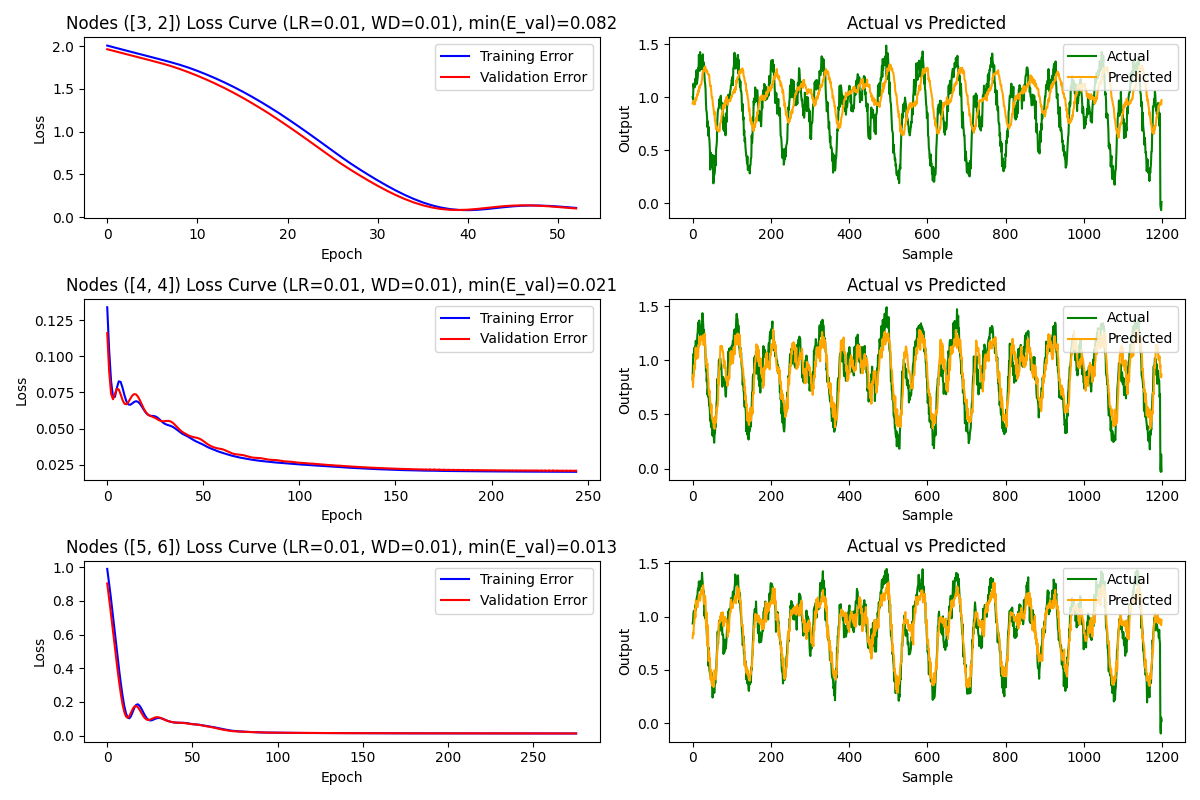
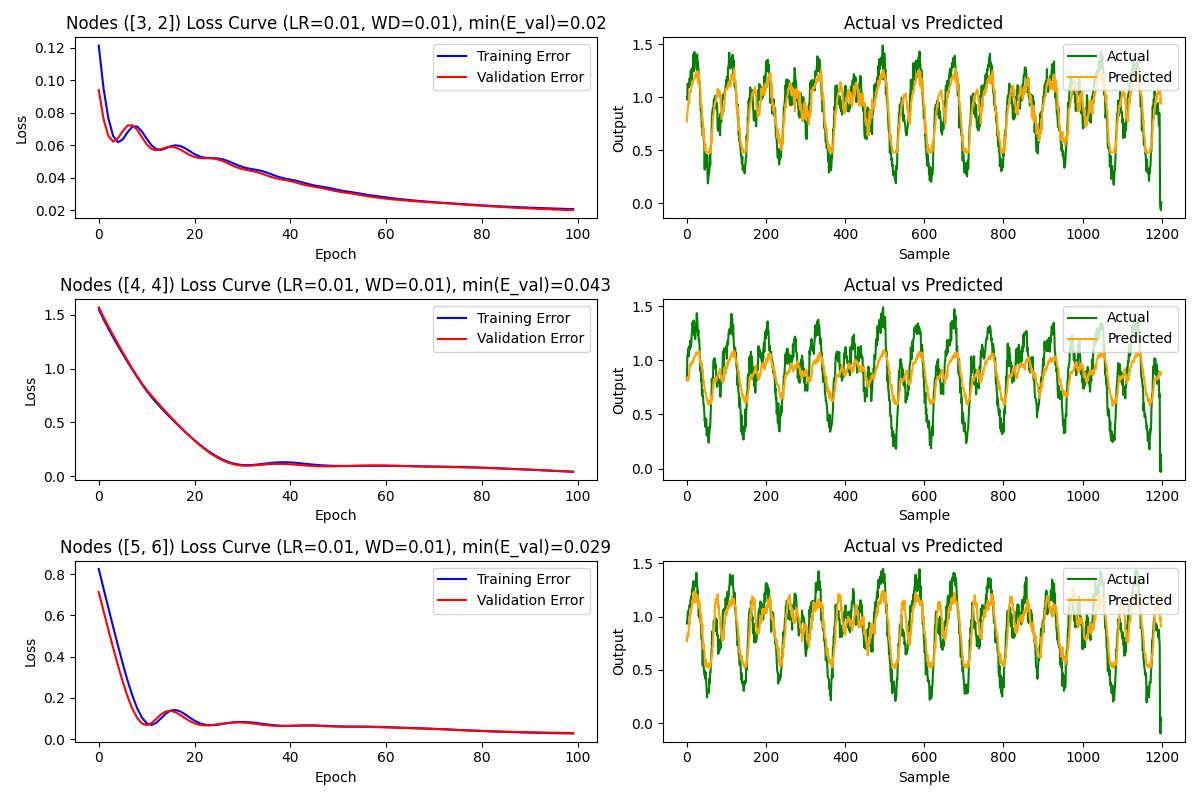
added mean version of task 2-1

diff --git a/lab1b/src/task_2-1_mean.py b/lab1b/src/task_2-1_mean.py
@@ -118,15 +118,19 @@ class MLP(nn.Module):
                         break
 
             #print loss
-            print("Epoch", epoch, "\t: training loss =", train_loss.item(), "\t: validation loss =", val_loss.item())
+            #print("Epoch", epoch, "\t: training loss =", train_loss.item(), "\t: validation loss =", val_loss.item())
 
             train_loss_list.append(train_loss.item())
             valid_loss_list.append(val_loss.item())
     
 
+        print("Finished training\tfinal training error:", train_loss_list[-1], "\tfinal validation error:", valid_loss_list[-1])
+
+
         #If no early_Stopping --> just take the last sample as best
         if not early_stopping:
-            best_model_weights = copy.deepcopy(self.state_dict()) 
+            best_model_weights = copy.deepcopy(self.state_dict())
+        
 
         return best_model_weights, train_loss_list, valid_loss_list
 
@@ -277,6 +281,7 @@ class Dataset:
 
 
 def main(LAYER_SIZES, LEARNING_RATE, WEIGHT_DECAY, ax1, ax2):
+    #NUM_RUNS = 10
     NUM_EPOCHS = 100
     layer_sizes = LAYER_SIZES
     ZERO_MEAN = True
@@ -295,31 +300,68 @@ def main(LAYER_SIZES, LEARNING_RATE, WEIGHT_DECAY, ax1, ax2):
     num_samples, input_size = X_in.shape
     _, output_size = X_out.shape
 
-    if ZERO_MEAN:
-        X_in += np.random.normal(0, 0.05, (num_samples, input_size))
-        X_out += np.random.normal(0, 0.05, (n_samples, output_size))
+    np.random.seed(23)
 
-    input_training, input_validation, input_testing, output_training, output_validation, output_testing = dataset.split_samples_no_shuffle_test(X_in, X_out, valid_dist, n_samples)
+    run_list_train_loss = []
+    run_list_valid_loss = []
+    predicted_outputs_list = []
+    X_out_list = []
+    for i in range(NUM_RUNS):
+        
 
-    model = MLP(input_size=input_size, layer_sizes=layer_sizes, output_size=output_size)
+        if ZERO_MEAN:
+            X_in_run = X_in + np.random.normal(0, 0.05, (num_samples, input_size))
+            X_out_run = X_out + np.random.normal(0, 0.05, (n_samples, output_size))
 
-    criterion = nn.MSELoss()
-    optimizer = torch.optim.Adam(model.parameters(), lr=LEARNING_RATE, weight_decay=WEIGHT_DECAY)
+        #input_training, input_validation, input_testing, output_training, output_validation, output_testing = dataset.split_samples_no_shuffle_test(X_in, X_out, valid_dist, n_samples)
+        input_training, input_validation, input_testing, output_training, output_validation, output_testing = dataset.split_samples(X_in_run, X_out_run, valid_dist, n_samples)
 
-    best_model_weights, train_loss_list, valid_loss_list = model.train_and_validate(input_training, output_training, input_validation, output_validation, NUM_EPOCHS, criterion, optimizer, early_stopping=EARLY_STOPPING)
+    
+        model = MLP(input_size=input_size, layer_sizes=layer_sizes, output_size=output_size)
+
+        criterion = nn.MSELoss()
+        optimizer = torch.optim.Adam(model.parameters(), lr=LEARNING_RATE, weight_decay=WEIGHT_DECAY)
+
+        best_model_weights, train_loss_list, valid_loss_list = model.train_and_validate(input_training, output_training, input_validation, output_validation, NUM_EPOCHS, criterion, optimizer, early_stopping=EARLY_STOPPING)
+
+
+        #Append losses to list for calculating mean of them
+        run_list_train_loss.append(train_loss_list)
+        run_list_valid_loss.append(valid_loss_list)
+
+        predicted_outputs_list.append(model(torch.tensor(X_in_run).double()).detach().numpy())
+        X_out_list.append(X_out_run)
+    
+
+
+    #Find mean training and validation error between runs
+    mean_train_loss_list = np.mean(run_list_train_loss, axis=0)
+    mean_valid_loss_list = np.mean(run_list_valid_loss, axis=0)
+
+    #Find mean predicted outputs for each run
+    mean_predicted_outputs_list = np.mean(predicted_outputs_list, axis=0)
+    mean_X_out_list = np.mean(X_out_list, axis=0)
+    
+
+
+
+    #print("run_list_train_loss", run_list_train_loss)
+    #print("run_list_valid_loss", run_list_valid_loss)
+    #print("mean_train_loss_list", mean_train_loss_list)
+    #print("mean_valid_loss_list", mean_valid_loss_list)
+        
 
     # Plot training and validation loss
-    ax1.plot(train_loss_list, label='Training Error', color='blue')
-    ax1.plot(valid_loss_list, label='Validation Error', color='red')
+    ax1.plot(mean_train_loss_list, label='Training Error', color='blue')
+    ax1.plot(mean_valid_loss_list, label='Validation Error', color='red')
     ax1.set_title(f"Nodes ({LAYER_SIZES})\nLoss Curve LR={LEARNING_RATE}\nmin(E_val)={round(min(valid_loss_list),3)}")
     ax1.set_xlabel("Epoch")
     ax1.set_ylabel("Loss")
     ax1.legend(loc="upper right")
 
     # Plot predicted vs actual outputs
-    ax2.plot(X_out, label='Actual', color='green')
-    predicted_outputs = model(torch.tensor(X_in).double()).detach().numpy()
-    ax2.plot(predicted_outputs, label='Predicted', color='orange')
+    ax2.plot(mean_X_out_list, label='Actual', color='green')
+    ax2.plot(mean_predicted_outputs_list, label='Predicted', color='orange')
     ax2.set_title("Actual vs Predicted")
     ax2.set_xlabel("Sample")
     ax2.set_ylabel("Output")
@@ -327,6 +369,7 @@ def main(LAYER_SIZES, LEARNING_RATE, WEIGHT_DECAY, ax1, ax2):
 
 
 # Define the parameter list (layer sizes and learning rates)
+NUM_RUNS = 10
 param_list = [
     [[3, 2], 0.01],
     [[4, 4], 0.01],
@@ -353,7 +396,7 @@ def update_plot(frame):
         ax1, ax2 = axes[i]
         main(params[0], params[1], weight_decay, ax1, ax2)
 
-    fig.suptitle(f"Weight Decay = {weight_decay:.1e}")
+    fig.suptitle(f"Average over {NUM_RUNS} runs\nWeight Decay = {weight_decay:.1e}")
 
 # Set up the figure and axes for animation
 fig = plt.figure(figsize=(18, 10))
@@ -362,7 +405,8 @@ fig = plt.figure(figsize=(18, 10))
 total_frames = len(weight_decay_values)
 
 # Create the animation
-anim = FuncAnimation(fig, update_plot, frames=total_frames, i repeat=False)
+anim = FuncAnimation(fig, update_plot, frames=total_frames, interval=400, repeat=False)
 
 # Save the animation as a GIF
 anim.save('../out/all_models_weight_decay_animation.gif', writer='pillow')
+
